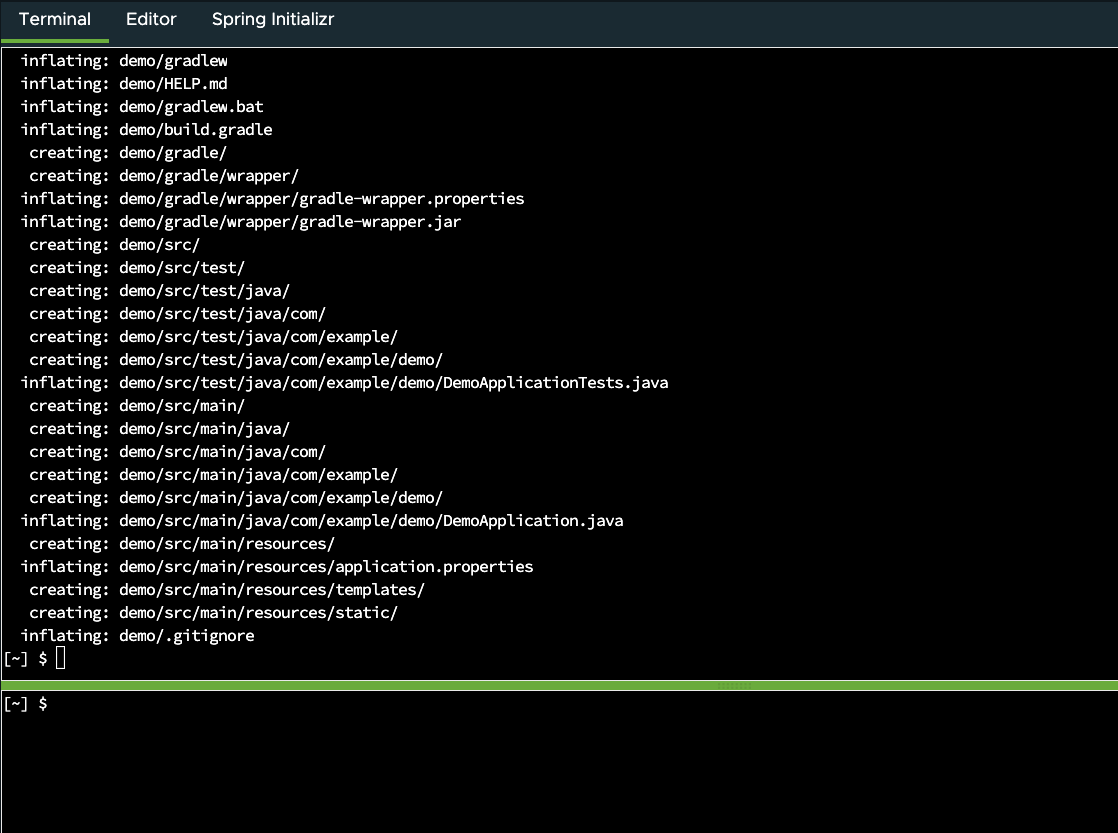
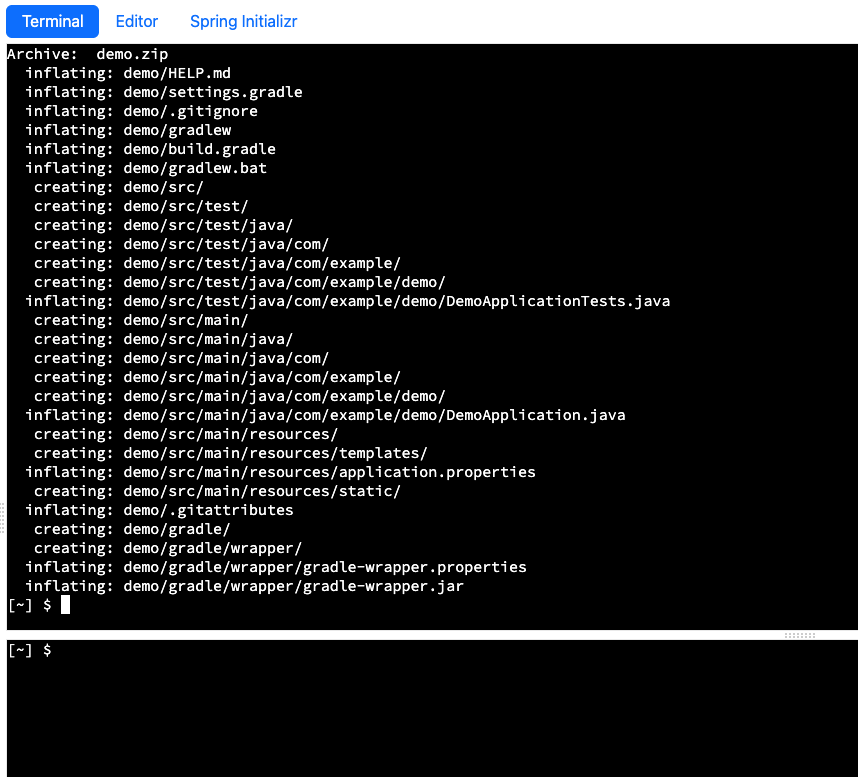
jdk 25 updates

Changed region(s): [[0.0, 0.0, 1.0, 1.0]]

diff --git a/labs/01-first-lab/workshop/content/05-run-app-as-native-image.md b/labs/01-first-lab/workshop/content/05-run-app-as-native-image.md
@@ -1,7 +1,7 @@
-Let's build the native image:
+Let's build the native image. In the lab environment we will make use of the ``--quick-build-native`` flag. This flag allows for a slightly quicker compile time at the expense of a slightly larger binary:
 
 ```console
-[~/demo] $ ./gradlew nativeCompile
+[~/demo] $ ./gradlew nativeCompile --quick-build-native
 ...
 Finished generating 'demo' in 1m 34s.
     [native-image-plugin] Native Image written to: demo/build/native/nativeCompile
@@ -13,6 +13,36 @@ You'll notice that the native build takes _significantly more time_ than JVM bui
 
 During the execution of this command, Spring Ahead-Of-Time (AOT) engine analyzes the application and infers the native configuration needed (for reflection, proxies, or resources, for example), and generates a programmatic application context, optimized for native image (less reflection needed, Spring Boot conditions precomputed, etc).
 Then, the GraalVM native image compiler performs a static analysis of the application, compiles the JVM bytecode to a native executable, and includes the dependencies and JVM subsets used.
+
+**_Note_**: The lab environment has been configured with limited resources so you may need to be patient while the native compilation completes. You can follow the completion status in the console.
+
+```
+...
+Build resources:
+ - 6.49GB of memory (75.6% of system memory, in container)
+ - 4 thread(s) (100.0% of 4 available processor(s), determined at start)
+SLF4J(W): No SLF4J providers were found.
+SLF4J(W): Defaulting to no-operation (NOP) logger implementation
+SLF4J(W): See https://www.slf4j.org/codes.html#noProviders for further details.
+[2/8] Performing analysis...  [******]                                                                 (288.0s @ 1.91GB)
+   19,162 types,  28,835 fields, and  88,980 methods found reachable
+    7,183 types,   3,727 fields, and  15,184 methods registered for reflection
+      136 types,     229 fields, and     122 methods registered for JNI access
+        0 downcalls and 0 upcalls registered for foreign access
+        4 native libraries: dl, pthread, rt, z
+[3/8] Building universe...                                                                              (38.2s @ 2.22GB)
+[4/8] Parsing methods...      [*****]                                                                   (26.1s @ 2.40GB)
+[5/8] Inlining methods...     [***]                                                                     (20.0s @ 2.66GB)
+[6/8] Compiling methods...    [*****************]                                                      (303.1s @ 2.22GB)
+[7/8] Laying out methods...   [*****]                                                                   (29.1s @ 2.97GB)
+[8/8] Creating image...       [*****]                                                                   (25.4s @ 3.32GB)
+...
+Finished generating 'demo' in 12m 49s.
+[native-image-plugin] Native Image written to: /home/eduk8s/demo/build/native/nativeCompile
+
+BUILD SUCCESSFUL in 13m 26s
+...
+```
 
 ## Run the application with the native executable
 

diff --git a/labs/01-first-lab/workshop/content/04-install-native-build-tools.md b/labs/01-first-lab/workshop/content/04-install-native-build-tools.md
@@ -40,6 +40,18 @@ We'll choose this one and install the latest Java 25 version available:
 [~/demo] $ sdk install java 25.0.4.r25-nik
 ```
 
+The install should take a couple of minutes after which you will be asked if you wish to set the newly installed JDK as the default. Select `y` and hit enter.
+
+```console
+...
+Installing: java 25.0.4.r25-nik
+Done installing!
+
+Do you want java 25.0.4.r25-nik to be set as default? (Y/n): y
+
+Setting java 25.0.4.r25-nik as default.
+```
+
 Let's verify that our `java` executable is the GraalVM we just installed. First, you'll need to start a new shell, so that the shell can "see" what was just installed by SDKMAN!:
 
 ```console
@@ -49,19 +61,19 @@ Let's verify that our `java` executable is the GraalVM we just installed. First,
 Now that you've started a new shell, you should see that the version of Java is the newly-installed GraalVM:
 
 ```console
-[~/demo] $ java -version
-openjdk version "25.0.4" 2026-01-20 LTS
-OpenJDK Runtime Environment Liberica-NIK-25.0.4+1 (build 25.0.4+11-LTS)
-OpenJDK 64-Bit Server VM Liberica-NIK-25.0.4+1 (build 25.0.4+11-LTS, mixed mode, sharing)
+[~/demo] $ java --version
+openjdk 25.0.4 2026-07-21 LTS
+OpenJDK Runtime Environment Liberica-NIK-25.0.4-1 (build 25.0.4+10-LTS)
+OpenJDK 64-Bit Server VM Liberica-NIK-25.0.4-1 (build 25.0.4+10-LTS, mixed mode, sharing)
 ```
 
 Let's also check that the `native-image` tool is available as expected:
 
 ```console
 [~/demo] $ native-image --version
-native-image 25.0.4 2026-01-20
-GraalVM Runtime Environment Liberica-NIK-25.0.4+1 (build 25.0.4+11-LTS)
-Substrate VM Liberica-NIK-25.0.4+1 (build 25.0.4+11-LTS, serial gc)
+native-image 25.0.4 2026-07-21
+GraalVM Runtime Environment Liberica-NIK-25.0.4-1 (build 25.0.4+10-LTS)
+Substrate VM Liberica-NIK-25.0.4-1 (build 25.0.4+10-LTS, serial gc)
 ```
 
 Now that we have GraalVM installed, we're ready to use it to build and run our application as a native image.

diff --git a/labs/01-first-lab/workshop/content/01-initializr.md b/labs/01-first-lab/workshop/content/01-initializr.md
@@ -1,16 +1,18 @@
 We'll start by generating a complete codebase that's Native-Image-ready. To start, open the **_Spring Initializr_** Web UI.
 
 - In this Lab, it's in a tab over to the right, in this very browser window. **(Look right →)**, and you will find the **Spring Initializr** Tab.
+  
   > **_Note_**: When you are not using this Spring Academy browser-based Lab environment, the same Initializr web site can be found at [start.spring.io](https://start.spring.io/).
 
 You don't need to make any changes on the _Project_,
-_Language_, _Spring Boot_ or _Project Metadata_ sections of the Initializr web page.
-The default settings produce a complete application.
+_Language_, or _Spring Boot_ sections of the Initializr web page.
+
+In the _Project Metadata_ section, change the **Java** version to **25**. This
+matches the GraalVM distribution we'll install in a later step — the project
+won't build correctly on the JVM version the Initializr defaults to otherwise.
 
 On the _Dependencies_ section you must add two dependencies.
-Using the **ADD DEPENDENCIES...** button in the upper right,
-or alternatively the **ADD...** button in the lower right on smaller screens,
-select the following two dependencies.
+Using the **ADD DEPENDENCIES...** button in the upper right select the following two dependencies.
 You can find them by scrolling through the choices, or searching by name:
 
 - **GraalVM Native Support**

diff --git a/metadata/lms/02-lesson-what-how/content.md b/metadata/lms/02-lesson-what-how/content.md
@@ -23,7 +23,7 @@ The JVM and native images make different tradeoffs, so it is important to unders
 
 ## How?
 
-Spring Boot 3 introduces official support for compiling applications to native executable with [GraalVM](https://www.graalvm.org/).
+Spring Boot 3 introduced official support for compiling applications to a native executable with [GraalVM](https://www.graalvm.org/).
 
 Before talking about the native compilation, let’s start with a quick overview of a typical deployment of a Spring Boot JVM application.
 
@@ -31,7 +31,7 @@ The Java source code is compiled to Java bytecode, and can be packaged easily by
 
 ![Deploying a Spring Boot application to run on the JVM](https://raw.githubusercontent.com/spring-academy/spring-academy-assets/main/courses/course-spring-boot-native/deployment-jvm.svg)
 
-Spring Boot 3 introduces additional capabilities, building a smaller, more efficient container image, thanks to two additional steps.
+Spring Boot 3 introduced additional capabilities, building a smaller, more efficient container image, thanks to two additional steps.
 
 ![Deploying a Spring Boot application as a native image](https://raw.githubusercontent.com/spring-academy/spring-academy-assets/main/courses/course-spring-boot-native/deployment-native.svg)
 

diff --git a/labs/01-first-lab/workshop/content/06-run-app-using-buildpack.md b/labs/01-first-lab/workshop/content/06-run-app-using-buildpack.md
@@ -10,7 +10,7 @@ When you build the application using a Cloud Native Buildpack, you produce not o
 
 Building your application using a Buildpack does _not_ require the GraalVM native image compiler to be installed locally, but it _does_ require Docker to be installed and usable as the current (non-root) user. Not to worry! This interactive Lab environment already has Docker installed and ready for use.
 
-**_Note_**: Regarding CPU architecture support: Cloud Native Buildpack support allows you to create **Linux x86/AMD** container images independently of the host Operating System, but **ARM** CPU architecture (e.g. the Mac M1 CPU) is not yet supported.
+**_Note_**: Regarding CPU architecture support: Cloud Native Buildpack multi-architecture support allows building an ARM64 app image on an ARM64 host, and building an AMD64 app image on an AMD64 host. It does not currently support building an app image for one architecture on a different architecture. However, if your host machine supports emulation (for example, with QEMU) you may be able to perform cross platform builds, albeit with a performance penalty.
 
 ## Build the application with Cloud Native Buildpack
 

diff --git a/labs/01-first-lab/workshop/content/02-add-api-endpoint.md b/labs/01-first-lab/workshop/content/02-add-api-endpoint.md
@@ -1,7 +1,12 @@
 Now let's add a REST GET endpoint so that it's easy to test that our application works.
 
 Select the **_Editor_** tab, to the right. This tab is running Visual Studio Code, an IDE that we'll use to interactively edit and test the application.
-Add the following Controller class by creating the file `demo/src/main/java/com/example/demo/HelloController.java` with the following content:
+Add the following Controller class by creating the file `demo/src/main/java/com/example/demo/HelloController.java` and updating its content with the following code:
+
+```editor:append-lines-to-file
+file: ~/demo/src/main/java/com/example/demo/HelloController.java
+description: "Create HelloController.java"
+```
 
 ```copy java
 package com.example.demo;

diff --git a/labs/01-first-lab/workshop/content/03-run-app-on-jvm.md b/labs/01-first-lab/workshop/content/03-run-app-on-jvm.md
@@ -5,6 +5,10 @@ We'll continue by simply building and testing the application as a non-native, i
 
 In the upper Terminal, run the following command, which tells Gradle to build and run the Spring Boot application. Be sure to change to the `demo` directory first:
 
+```dashboard:open-dashboard
+name: Terminal
+```
+
 ```console
 [~] $ cd demo
 [~/demo] $ ./gradlew bootRun
